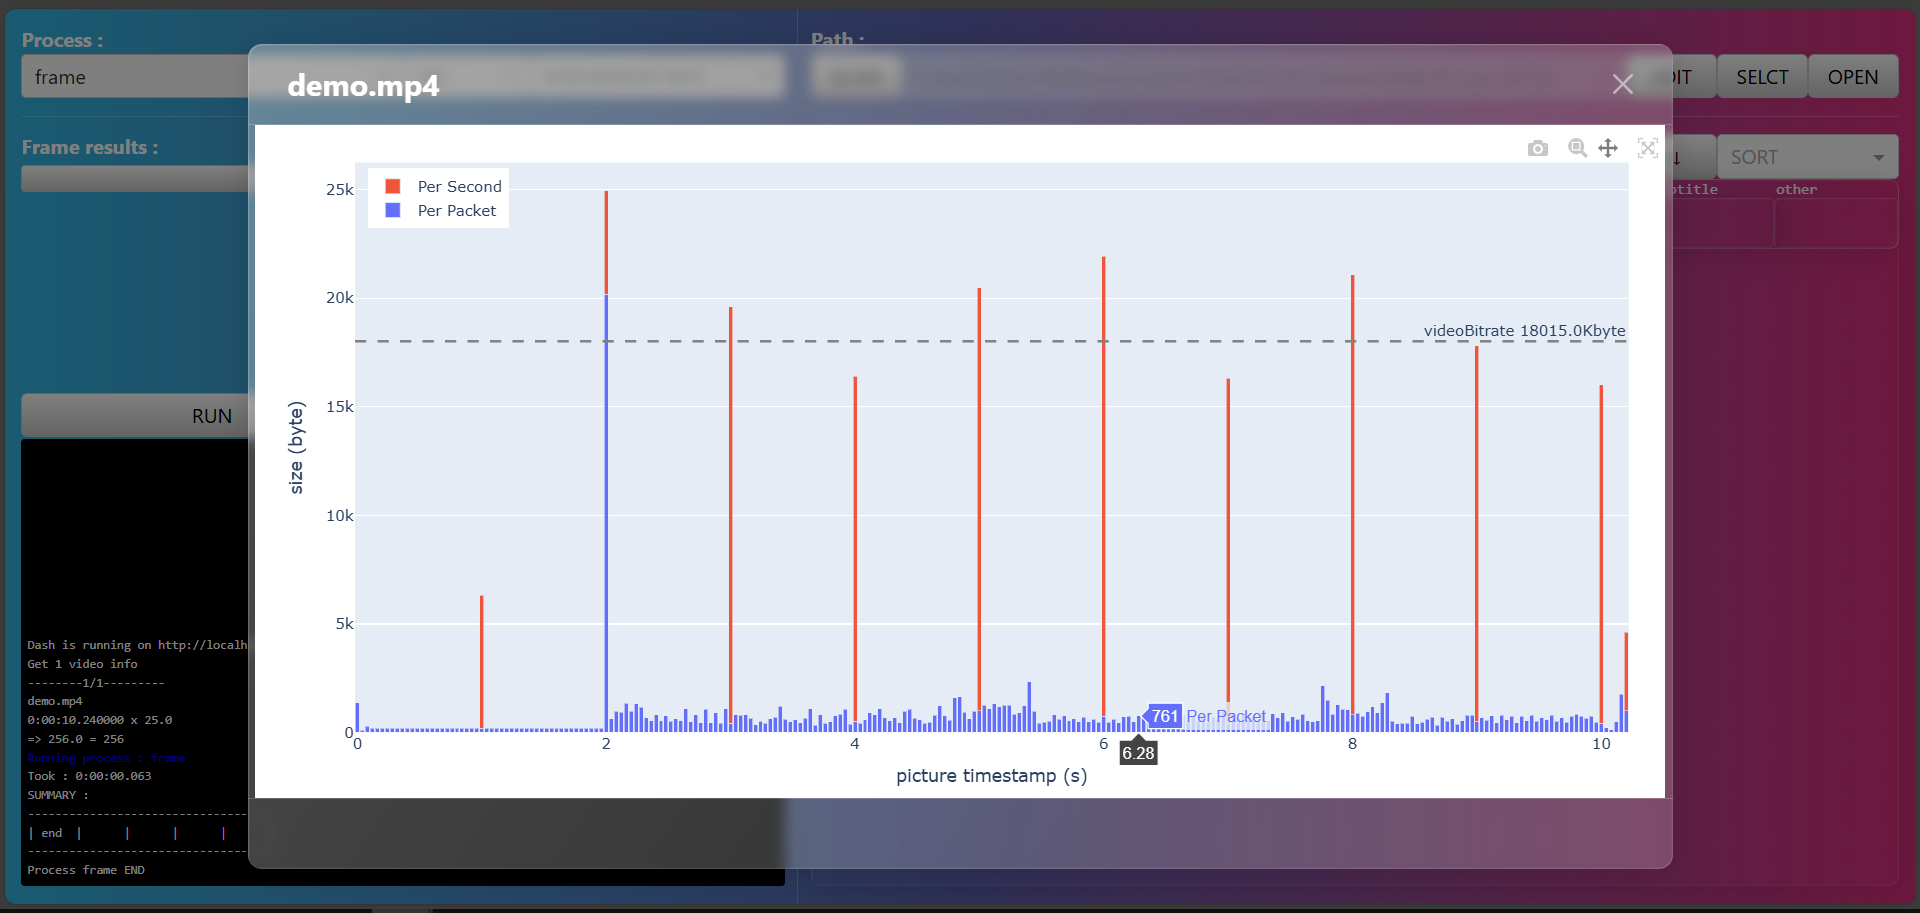
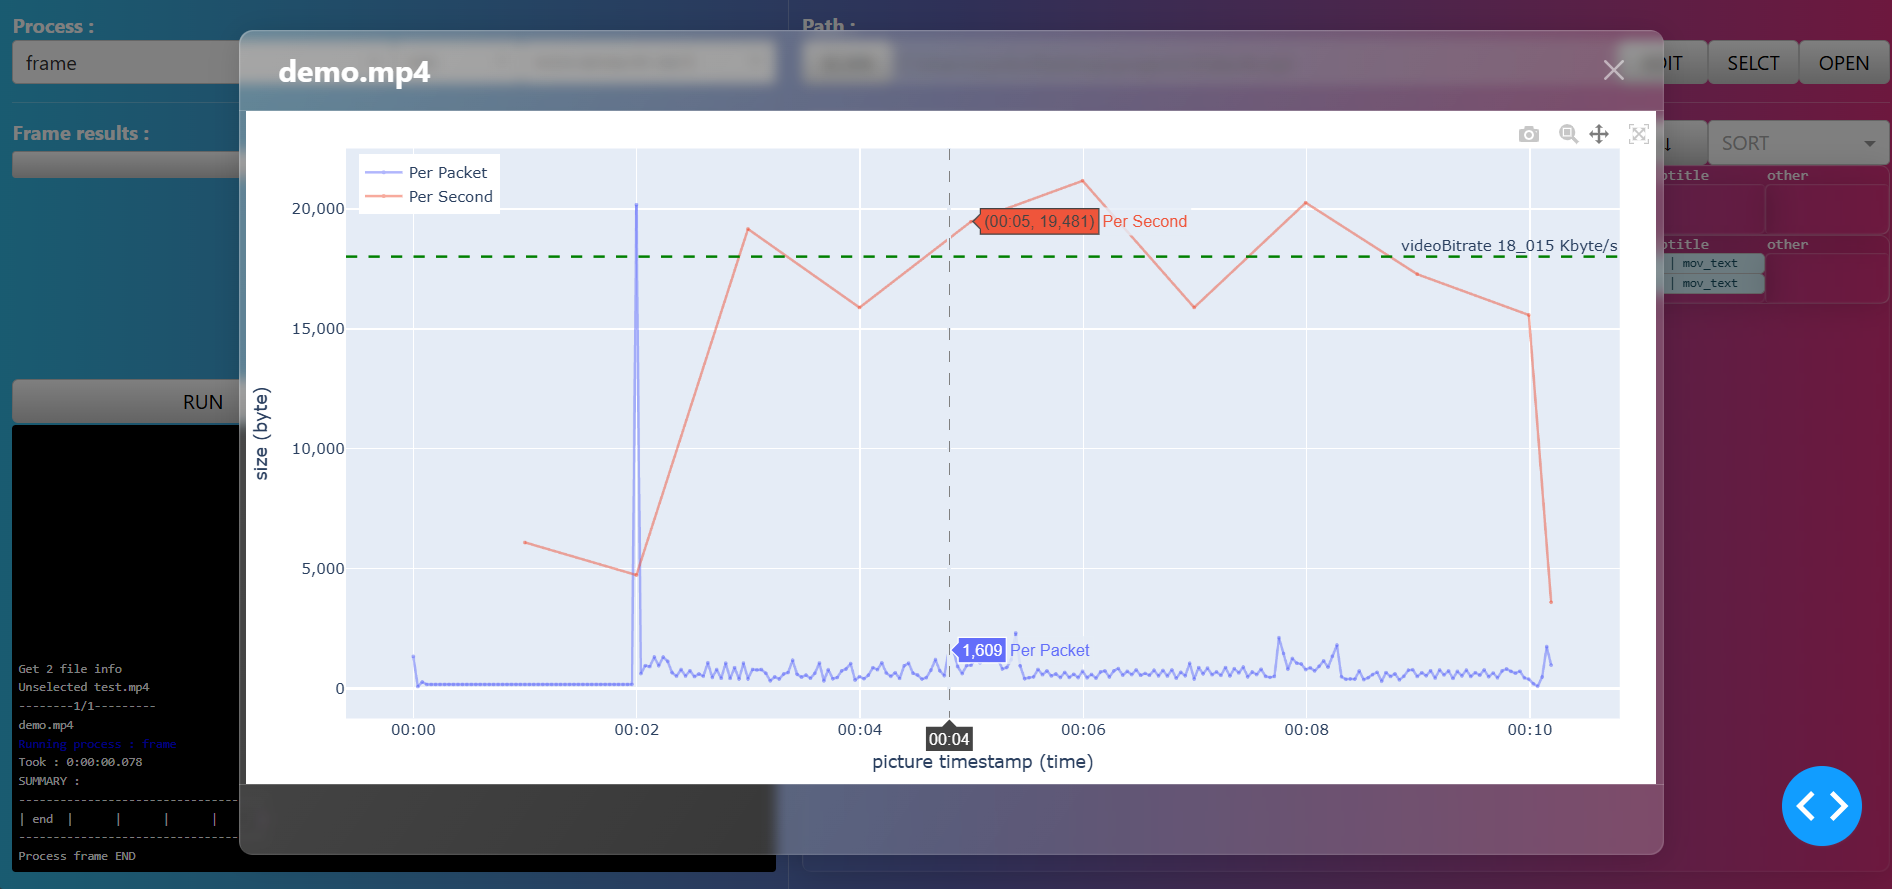
optimize frame graph to remove lag for long duration video

diff --git a/VideoScripyWebUI.py b/VideoScripyWebUI.py
@@ -2,6 +2,7 @@
 import os
 from sys import stdout, stderr
 from time import sleep
+from datetime import timedelta
 from webbrowser import open_new
 from threading import Timer
 
@@ -927,43 +928,62 @@ def update_div_FrameResultUI(clicks):
 def getFrameModalBody(videoIndex):
     global allVideoList
 
+    scatterProp = {
+        # "fill":"tozeroy", #slow
+        "opacity":0.5,
+        "mode":"lines+markers",
+        "marker":{"size":3},
+    }
+
     fig = go.Figure(
         data=[
-            go.Bar(
+            go.Scattergl(
                 x=allVideoList[videoIndex]["frameBytePerPacket"]["pts_time"],
                 y=allVideoList[videoIndex]["frameBytePerPacket"]["size"],
                 name="Per Packet",
+                **scatterProp,
             ),
-            go.Bar(
+            go.Scattergl(
                 x=allVideoList[videoIndex]["frameBytePerSecond"]["pts_time"],
                 y=allVideoList[videoIndex]["frameBytePerSecond"]["size"],
                 name="Per Second",
+                **scatterProp,
             ),
         ],
         layout={
-            "barmode":"stack",
             "hovermode":"x",
             "autosize":True,
             "margin":go.layout.Margin(t=30,b=30,r=30),
+            "dragmode":"pan",
+            "legend":{
+                "yanchor":"top",
+                "y":0.99,
+                "xanchor":"left",
+                "x":0.01
+            },
         },
     )
-    fig.update_xaxes(title_text="picture timestamp (s)")
+    fig.update_xaxes(title_text="picture timestamp (time)")
+    fig.update_xaxes(showspikes=True, spikecolor="grey", spikemode="across", spikethickness=1)
+
+    duration = allVideoList[videoIndex]["duration"]
+    if duration < timedelta(hours=1):
+        fig.update_xaxes(tickformat="%M:%S")
+    elif duration < timedelta(days=1):
+        fig.update_xaxes(tickformat="%H:%M:%S")
+    else:
+        pass
+
     fig.update_yaxes(title_text="size (byte)")
-    fig.update_layout(legend=dict(
-        yanchor="top",
-        y=0.99,
-        xanchor="left",
-        x=0.01
-    ))
-    fig.update_layout(dragmode="pan")
+    fig.update_yaxes(tickformat=",.0f")
+
     videoBitrate = allVideoList[videoIndex]["bitRate"]/8
     fig.add_hline(
         y=videoBitrate,
         line_dash="dash",
-        line_color="gray",
-        annotation_text=f'videoBitrate {videoBitrate}Kbyte',
+        line_color="green",
+        annotation_text=f'videoBitrate {videoBitrate:_.0f} Kbyte/s',
     )
-
     return dcc.Graph(
         id="graph",
         figure=fig,

diff --git a/VideoScripy.py b/VideoScripy.py
@@ -4,7 +4,7 @@ import json
 import re
 from threading import Thread
 from pathlib import Path
-from datetime import timedelta
+from datetime import timedelta, datetime
 from shutil import rmtree
 from os import walk, mkdir, remove, listdir, getcwd, rmdir, rename
 from os.path import isdir, isfile
@@ -80,7 +80,7 @@ class StreamInfo(TypedDict):
 
 class FrameByte(TypedDict):
     # picture timestamp
-    pts_time : float
+    pts_time : datetime
     # size in byte
     size : int
 
@@ -191,6 +191,8 @@ class VideoScripy():
         self.setEncoder(h265=True)
 
         self.checkTools()
+
+        self.DAY_ZERO = datetime.strptime("2000/01/01", "%Y/%m/%d")
     
     def checkTools(self) -> None:
         """
@@ -1555,11 +1557,11 @@ class VideoScripy():
         
         processTime = time()
 
-        print(video["duration"], "x", video["fps"])
-        print(
-            "=>", video["duration"].total_seconds()*video["fps"],
-            "=", video["nbFrames"]
-        )
+        # print(video["duration"], "x", video["fps"])
+        # print(
+        #     "=>", video["duration"].total_seconds()*video["fps"],
+        #     "=", video["nbFrames"]
+        # )
 
         # run probe
         command = (
@@ -1643,6 +1645,10 @@ class VideoScripy():
         second_data_new = {}
         second_data_new["pts_time"] = [x["pts_time"] for x in second_data]
         second_data_new["size"] = [x["size"] for x in second_data]
+
+        # float to datetime
+        packet_data_new["pts_time"] = [self.DAY_ZERO + timedelta(seconds=f) for f in packet_data_new["pts_time"]]
+        second_data_new["pts_time"] = [self.DAY_ZERO + timedelta(seconds=f) for f in second_data_new["pts_time"]]
 
         # write info
         video["frameBytePerPacket"] = packet_data_new

diff --git a/README_CN.md b/README_CN.md
@@ -6,7 +6,7 @@
 
 **画质无损，空间节省。**
 
-视频压缩、流处理、AI放大 与 AI插帧 等视频处理的合集。
+视频压缩、流处理、AI放大 与 AI插帧 等 视频处理模块的合集。
 
 ![demo.gif](./doc/demo_upscale.gif)
 
@@ -16,25 +16,25 @@
 
 ## 目录
 
-- [系统要求](#系统要求)
-- [整合包安装](#整合包安装)
+- [环境要求](#环境要求)
+- [整合安装](#整合安装)
 - [手动安装](#手动安装)
-- [视频处理说明](#视频处理说明)
+- [视频处理模块说明](#视频处理模块说明)
 - [致谢](#致谢)
 
 
 
-## 系统要求
+## 环境要求
 
 - Windows 操作系统
 - NVIDIA 显卡（加速视频处理）
-- 至少 50GB 空间用于AI放大处理 | AI插帧处理需 10GB
+- 至少 50GB 硬盘空间用于AI放大处理 | AI插帧处理需 10GB
 - Python 3.10
 - [工具](#下载与安装-1)
 
 
 
-## 整合包安装
+## 整合安装
 
 最简单的方式，Python 和工具都已配置好。  
 优点：**适合小白**
@@ -106,7 +106,7 @@
 
 
 
-## 视频处理说明
+## 视频处理模块说明
 
 - 压缩  
     降低视频码率，节省存储空间

diff --git a/README.md b/README.md
@@ -6,7 +6,7 @@
 
 **Quality preserved, Storage saved.**
 
-Collection of video processes such as compression, upscale, interpolation and stream manipulation.
+Collection of video processing module such as compression, upscale, interpolation and stream manipulation.
 
 ![demo.gif](./doc/demo_upscale.gif)
 
@@ -19,7 +19,7 @@ Collection of video processes such as compression, upscale, interpolation and st
 - [Requirements](#requirements)
 - [Embedded version](#embedded-version)
 - [Self setup version](#self-setup-version)
-- [Processes Description](#processes-description)
+- [Processing module](#processing-module)
 - [Benchmarking](#benchmarking)
 - [Credits](#credits)
 
@@ -106,7 +106,7 @@ Run the `VideoScripyWebUI.py`
 
 
 
-## Processes Description
+## Processing module
 
 - compress  
     Reduce the video biteRate in order to gain storage space.  
